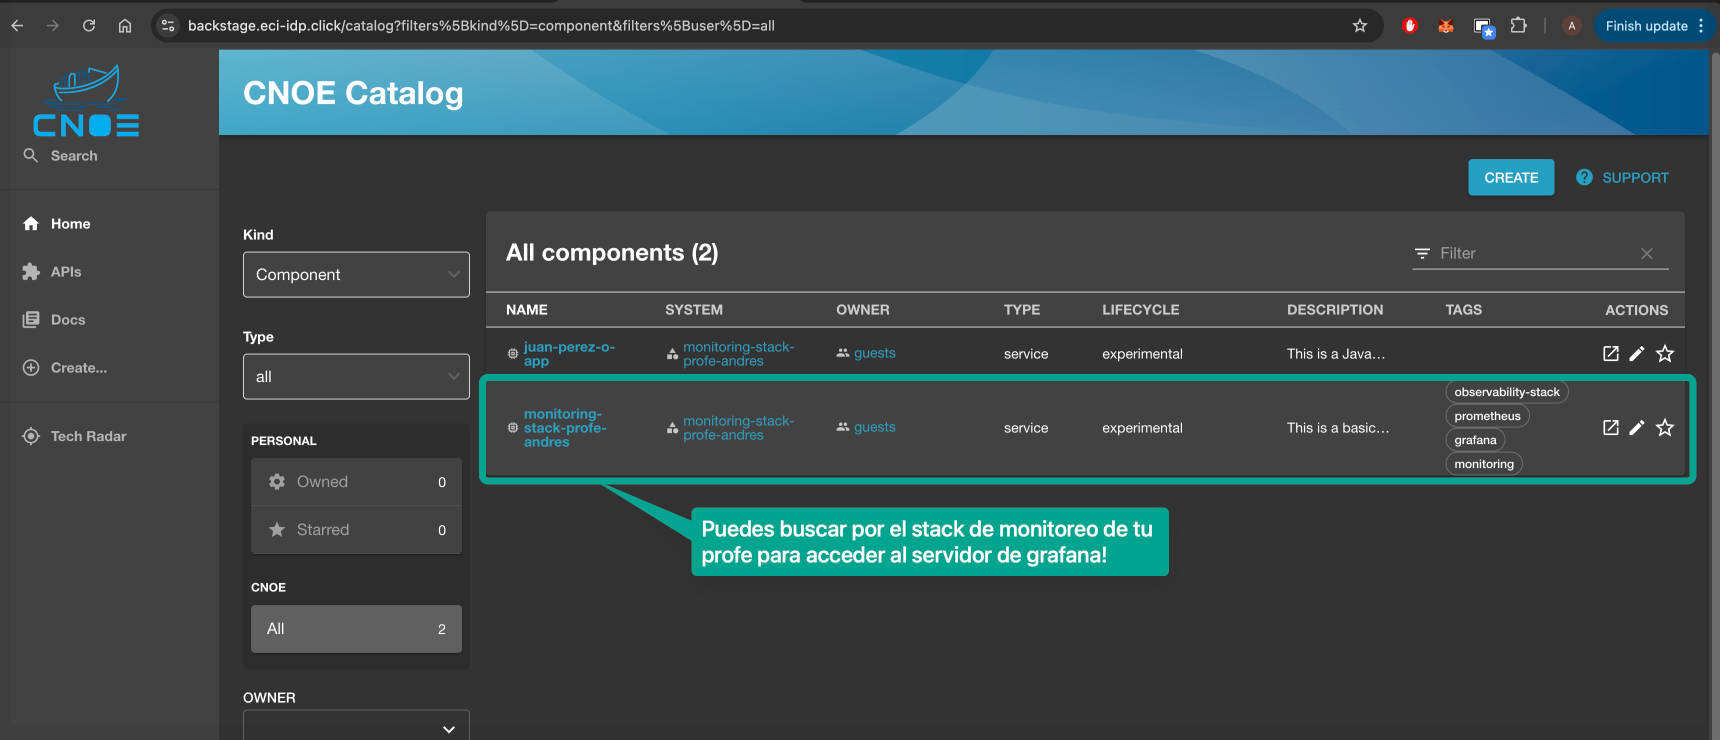
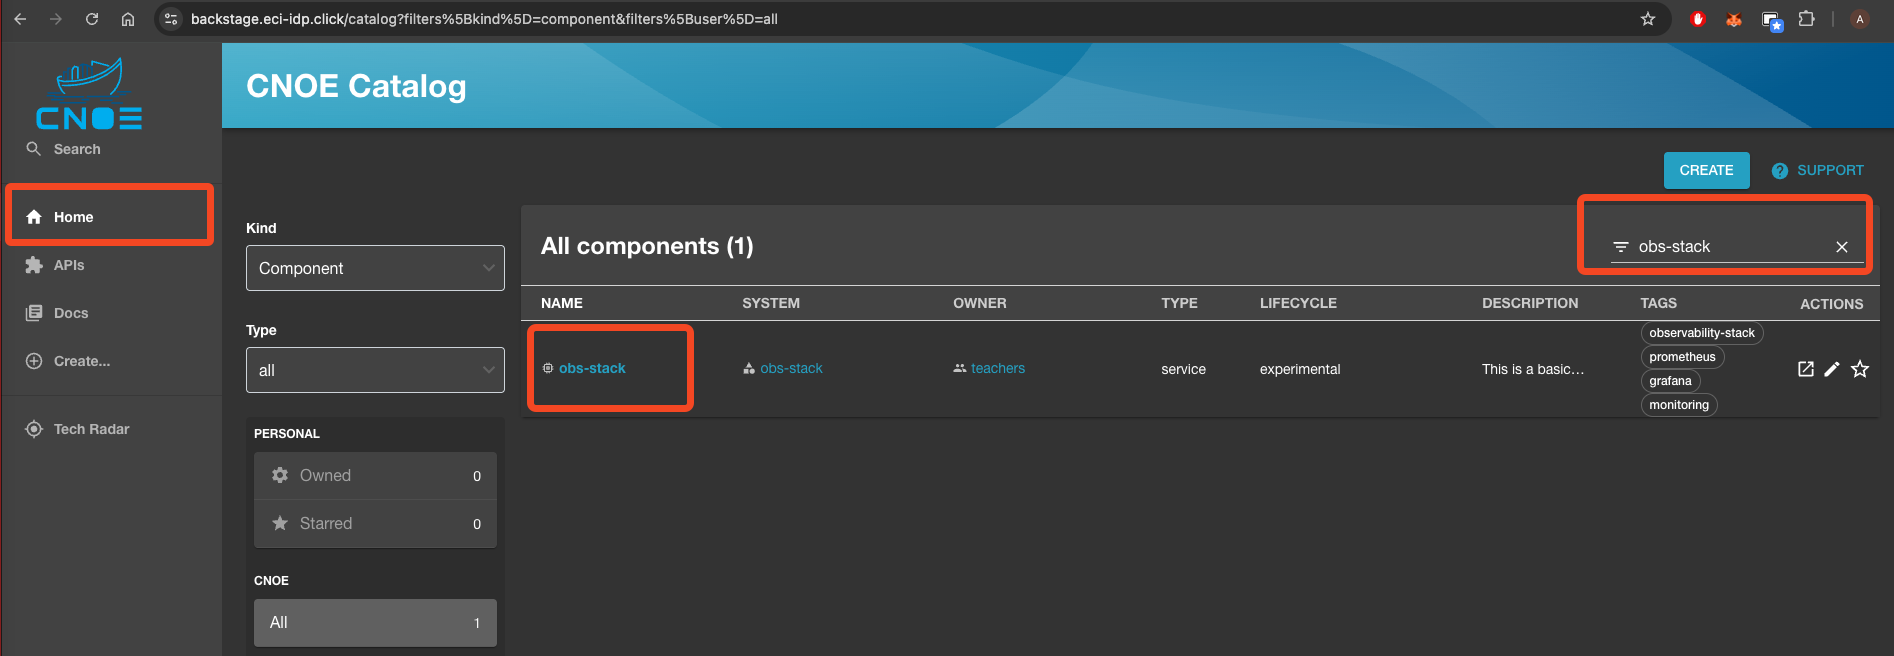
update resources

diff --git a/docs/3-grafana-dashboard-base.md b/docs/3-grafana-dashboard-base.md
@@ -27,7 +27,7 @@ Construir un dashboard en Grafana que permita visualizar y analizar las métrica
 
 ### 1⃣ Acceso a Grafana
 
-1. Ingresa a la interfaz web de Grafana, para esto, desde backstage busca la aplicación base que te entregó el profesor.  Allí encontrarás la url del servicio de Grafana, tal como se muestra en las siguientes imagenes
+1. Ingresa a la interfaz web de Grafana, para esto, desde backstage busca la aplicación `obs-stack`. Allí encontrarás la url del servicio de Grafana, tal como se muestra en las siguientes imagenes
 ![alt text](./resources/grafana-inicial/profesorstack.png)
 
 ![alt text](./resources/grafana-inicial/grafanaurl.png)
